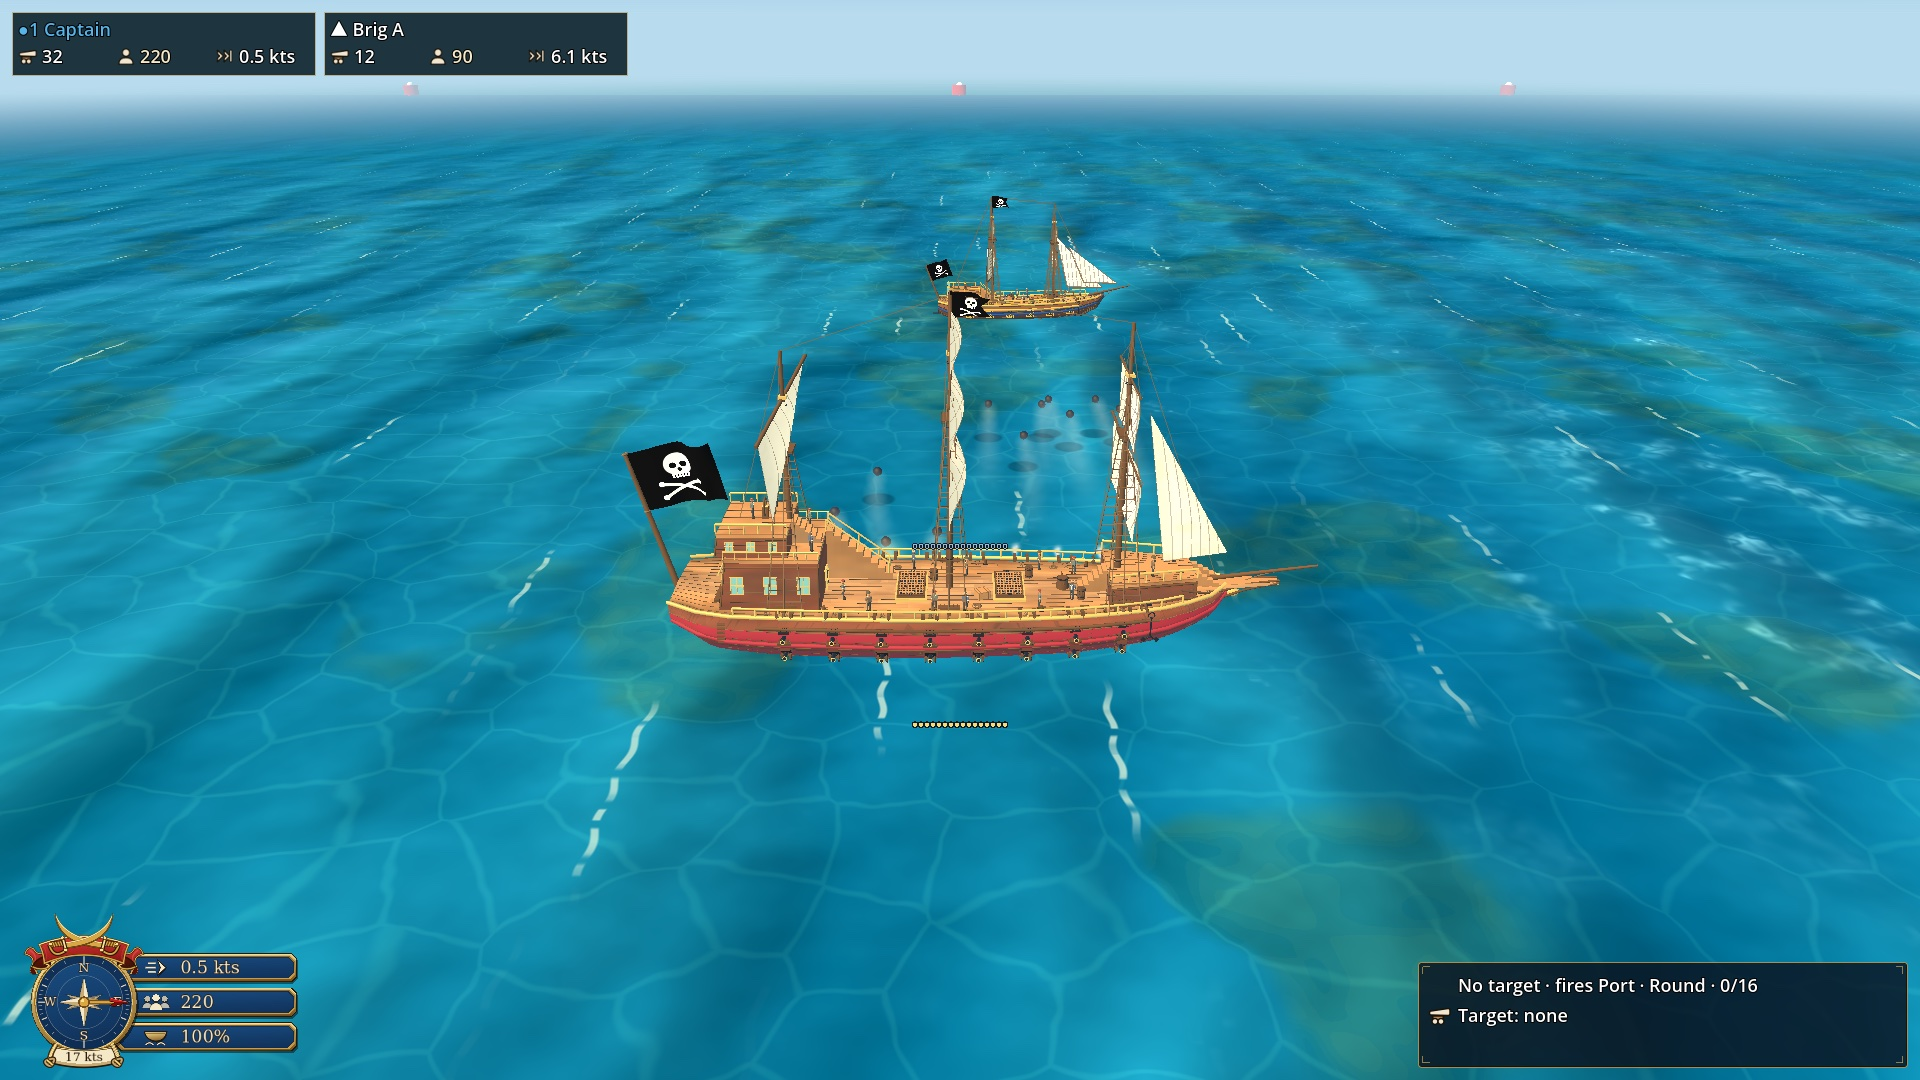
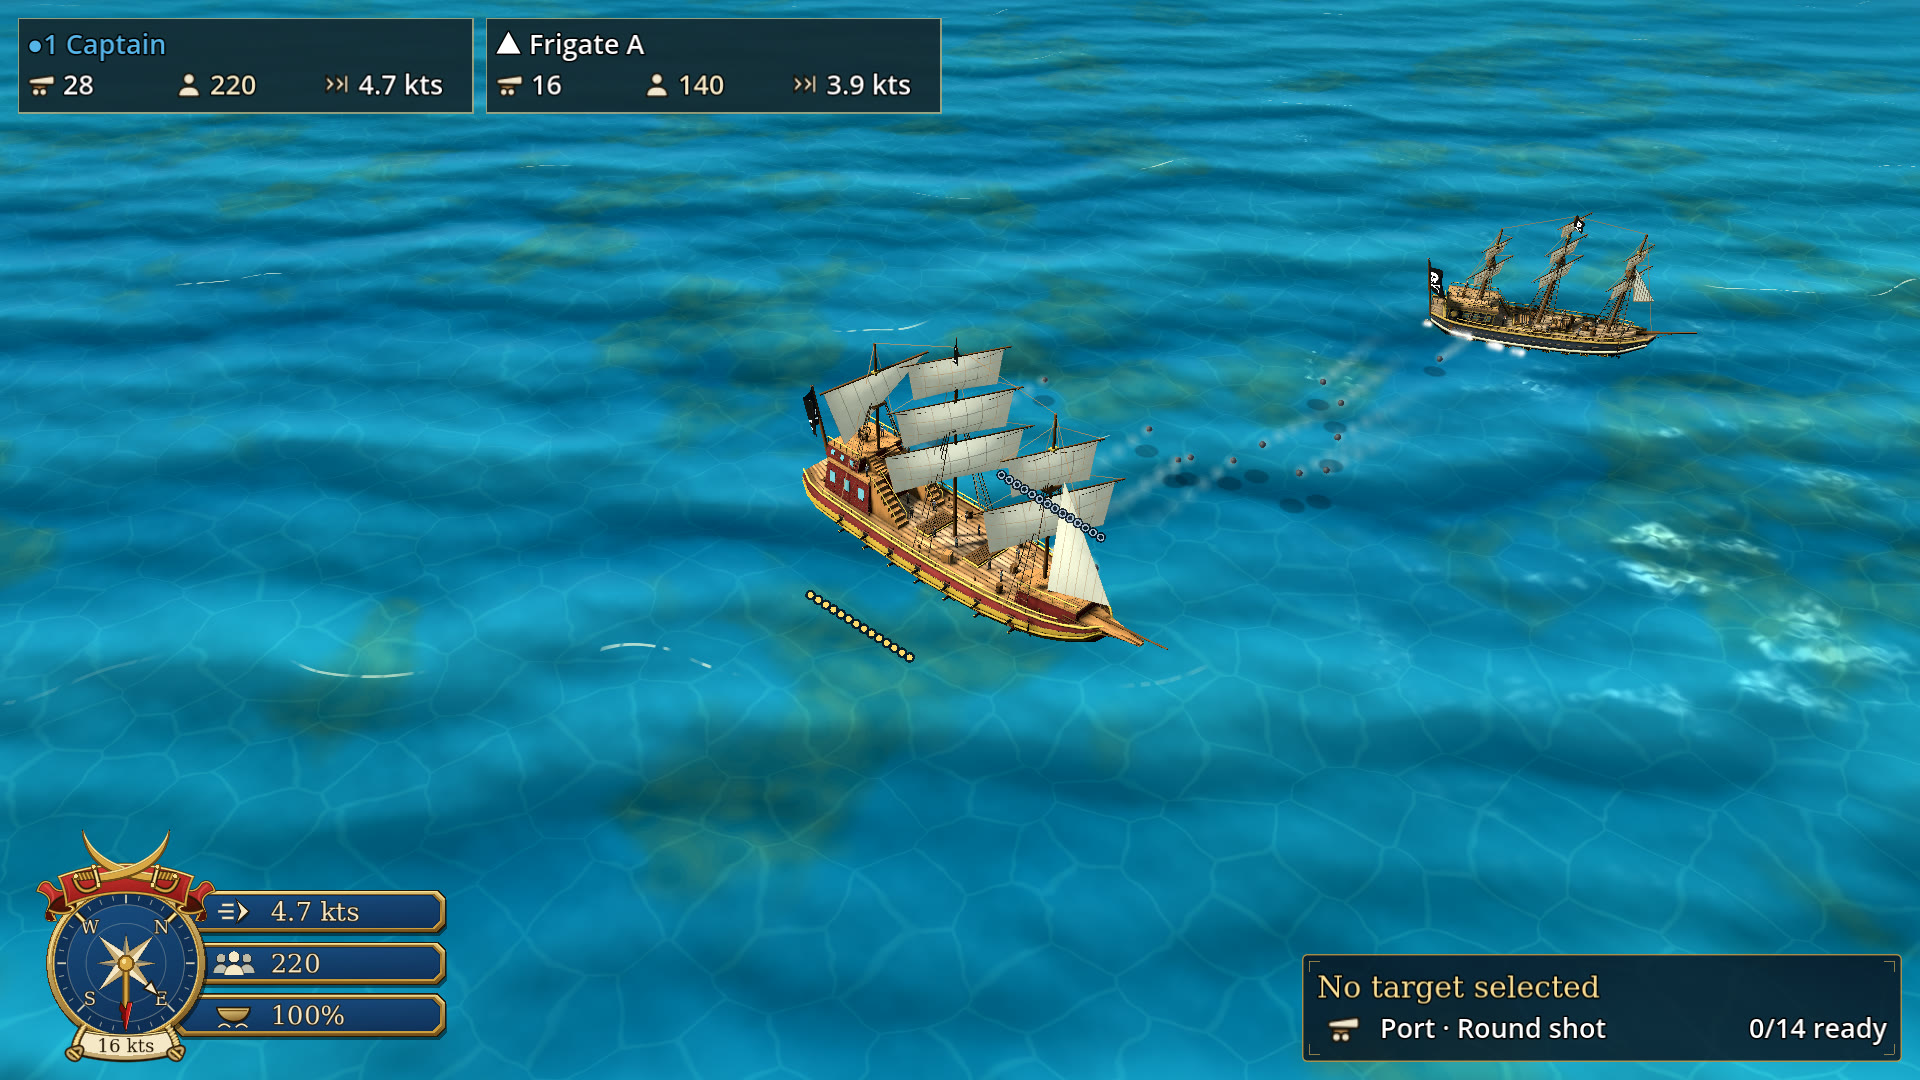
Refresh README and screenshots for v0.49
Summarise v0.43 to v0.49 in Latest additions, update the feature table, download size and save note, and replace the gallery with War Galleon shots: a ship-to-ship battle, harbour assault, duel, sea fight, hailing, Havana and a shore landing.

diff --git a/README.md b/README.md
@@ -16,7 +16,7 @@
 </p>
 
 <p align="center">
-  <img src="media/sailing.jpg" width="100%" alt="A sloop seen from the side while sailing, with the captain’s ambition and sailing controls visible">
+  <img src="media/sailing.jpg" width="100%" alt="A pirate War Galleon sailing past the Tortuga waterfront, with French ships at anchor nearby">
 </p>
 
 ## Overview
@@ -35,24 +35,26 @@ The game is built in Godot 4.7 by a solo developer with AI assistance. The sourc
 
 ## Latest additions
 
-[**v0.42**](https://github.com/dnldxn/tortuga-releases/releases/tag/v0.42) brings more reasons to go ashore and more life to the coast:
+[**v0.49**](https://github.com/dnldxn/tortuga-releases/releases/tag/v0.49) caps a big run of updates since v0.42 that brought the Caribbean to life:
 
-- **Provision on shore** — gather food at turtle beaches and fruit groves, or lift your crew’s spirits at a spring. Supply stops empty and refill over time.
-- **Discover something unexpected** — salvage washed-up cargo, search abandoned camps, rescue castaways and find treasure-map scraps in bottles. Each discovery can be claimed once before it disappears.
-- **Keep your ambition in sight** — a sailing card shows your captain’s next story goal, with useful reminders when you dock and a shortcut to unread chapters.
-- **Visit new waterfronts** — Havana and Tortuga have hand-made harbour scenes with boats, workers, flags and other small touches of activity.
-- **Enjoy richer landings** — a beached ship, rowing boat, captain and shovel-carrying crew accompany treasure hunts, with a rising chest and shore sounds when you find the prize.
+- **Storm a harbour** — a new Practice harbour assault: pick a port size, trade broadsides with up to four shore batteries, silence their guns, then land and storm the quay for a duel with the commander.
+- **A living sea** — computer ships now fight each other across the map. Spot a battle by its column of smoke and gunfire, then help the victim, join the raiders or sail on. Sunken ships leave floating wreckage with cargo and survivors for the first captain to reach it.
+- **True tavern news** — taverns report who sank or took whom and where, and where a well-laden pirate was last seen.
+- **Hail passing ships** — ask a captain where they are bound, add their prices to your price book and pick up jobs at sea.
+- **Sharper swordplay** — learn each opponent’s rhythm, break guards with heavy strikes and win the upper hand to help your crew in the boarding fight.
+- **Smarter, bolder captains** — escort jobs face pirate raids, navy allies fight beside you, and computer captains plan better, stand their ground more often and visibly flee when beaten.
+- **Better-looking ships and seas** — shadows, warmer timber and more depth, plus working boats, wildlife and lookout calls along the coast.
 
 ## What you can do today
 
 | | |
 |---|---|
-| **Sail & explore** | A 3D Caribbean with wind and tacking, 40 ports across four nations, and a chart that reveals coasts, landmarks and settlements as you explore. Rotate and zoom the camera, watch for passing traffic, and visit the new Havana and Tortuga waterfronts. |
-| **Fight** | Naval battles with eight hull types and round, chain and grape shot. Line up your broadsides, outmanoeuvre enemy captains, board for a timed 3D sword duel, or escape a losing fight and risk pursuit at sea. |
-| **Trade & plunder** | Buy low and sell high across port markets with a price book, capture prizes, keep ships as escorts, intercept the Spanish treasure fleet and hunt named rivals in their home waters. |
+| **Sail & explore** | A 3D Caribbean with wind and tacking, 40 ports across four nations, and a zoomable chart that reveals coasts, landmarks and settlements as you explore. Hail passing ships, watch working boats and wildlife along the coast, and visit the hand-made Havana and Tortuga waterfronts. |
+| **Fight** | Naval battles with eight hull types and round, chain and grape shot. Line up your broadsides, outmanoeuvre enemy captains, board for a 3D sword duel, or escape a losing fight and risk pursuit. Join fights between computer ships, and practise assaulting a fortified harbour. |
+| **Trade & plunder** | Buy low and sell high across port markets with a price book, capture prizes, keep ships as escorts, guard convoys from raiders, salvage wreckage, intercept the Spanish treasure fleet and hunt named rivals in their home waters. |
 | **Go ashore** | Land a party, follow treasure maps and dig up buried gold. Gather provisions at supply stops, salvage cargo, search camps, rescue castaways and pick up bottles with map scraps. |
 | **Run a crew** | Hire in taverns, keep your crew fed and paid, manage morale and wages, and inspect your hold and fleet from the captain’s quarters at sea. Repair, refit and store spare ships in port. |
-| **Build a career** | Follow a personal storyline with chapters, rivals and an ambition to work toward. Take commissions and contracts, improve skills, earn titles, retire and pass command to the next generation. The Journal keeps your tale, jobs and treasure maps together. |
+| **Build a career** | Follow a personal storyline with chapters, rivals, branching choices and an ambition to work toward. Take commissions and contracts, improve skills, earn titles, retire and pass command to the next generation. The Journal keeps your tale, jobs and treasure maps together. |
 | **Play together** | Sail offline or join a persistent shared world on a dedicated server for up to four captains, with a shared pause and server-side saving. |
 
 ## Screenshots
@@ -61,15 +63,19 @@ Captured in-game on macOS using staged campaign and battle scenes.
 
 <table>
   <tr>
-    <td width="50%"><img src="media/battle.jpg" alt="A galleon firing its enemy-facing broadside, seen from the side"><br><sub>A galleon fires a broadside.</sub></td>
-    <td width="50%"><img src="media/duel.jpg" alt="Captains crossing swords during a boarding duel"><br><sub>Settle a boarding action with a sword duel.</sub></td>
+    <td width="50%"><img src="media/battle.jpg" alt="A War Galleon and an enemy frigate exchanging broadsides, with cannonball trails crossing between them"><br><sub>Trade broadsides with an enemy frigate.</sub></td>
+    <td width="50%"><img src="media/harbour.jpg" alt="A War Galleon firing on a shore battery during a harbour assault, with hits sparking on the fort and return fire striking the ship"><br><sub>Silence the shore batteries in a harbour assault.</sub></td>
   </tr>
   <tr>
-    <td width="50%"><img src="media/havana.jpg" alt="Havana’s waterfront seen from above, with two merchant ships and their goals"><br><sub>Merchant traffic off Havana’s hand-made waterfront.</sub></td>
-    <td width="50%"><img src="media/tortuga.jpg" alt="Tortuga’s waterfront seen from above, with two merchant ships and their goals"><br><sub>Ships trading off Tortuga, with their destinations shown.</sub></td>
+    <td width="50%"><img src="media/duel.jpg" alt="The captain swings a heavy cutlass stroke during a boarding duel while the crews fight behind, with the upper-hand meter in your favour"><br><sub>Win the upper hand in a boarding duel.</sub></td>
+    <td width="50%"><img src="media/sea-fight.jpg" alt="A War Galleon approaching a pirate attack on a merchant off Havana, marked by a red battle ring and a column of smoke"><br><sub>Stumble on a pirate raid and decide whose side you are on.</sub></td>
   </tr>
   <tr>
-    <td width="50%"><img src="media/ashore.jpg" alt="A landing party beside a turtle beach supply stop"><br><sub>Go ashore to provision your ship.</sub></td>
+    <td width="50%"><img src="media/hail.jpg" alt="A War Galleon hailing a Spanish merchant, which answers with its cargo, destination and a sugar price"><br><sub>Hail a passing merchant for news and prices.</sub></td>
+    <td width="50%"><img src="media/havana.jpg" alt="A War Galleon off Havana’s waterfront, with a Spanish merchant leaving port"><br><sub>Visit Havana’s hand-made waterfront.</sub></td>
+  </tr>
+  <tr>
+    <td width="50%"><img src="media/ashore.jpg" alt="A landing party at a turtle beach supply stop, with the War Galleon anchored offshore"><br><sub>Go ashore to provision your ship.</sub></td>
     <td width="50%"><img src="media/story.jpg" alt="A personal story chapter on an aged parchment scroll"><br><sub>Follow your captain’s tale, chapter by chapter.</sub></td>
   </tr>
   <tr>
@@ -79,7 +85,7 @@ Captured in-game on macOS using staged campaign and battle scenes.
 
 ## Download
 
-Grab the latest build from [Releases](https://github.com/dnldxn/tortuga-releases/releases/latest), unpack it and run it. The v0.42 full downloads are about **80–95 MiB**, including the engine.
+Grab the latest build from [Releases](https://github.com/dnldxn/tortuga-releases/releases/latest), unpack it and run it. The v0.49 full downloads are about **80–100 MiB**, including the engine.
 
 | Platform | File |
 |---|---|
@@ -92,7 +98,7 @@ On Linux, unpack the archive into the folder where you want to keep the game, th
 
 The game updates itself: **Check for updates** in the main menu downloads and verifies the newer pack, then restarts. When possible, only changed game packs are downloaded. The `.pck` files and `update.json` on each release are for that updater. Clients and servers must run the same version to play together.
 
-**v0.42 needs a new campaign:** saves from v0.41 and earlier cannot be continued.
+**Campaigns carry over from v0.46 onward.** Saves from v0.45 and earlier need a new campaign.
 
 ## Feedback
 
